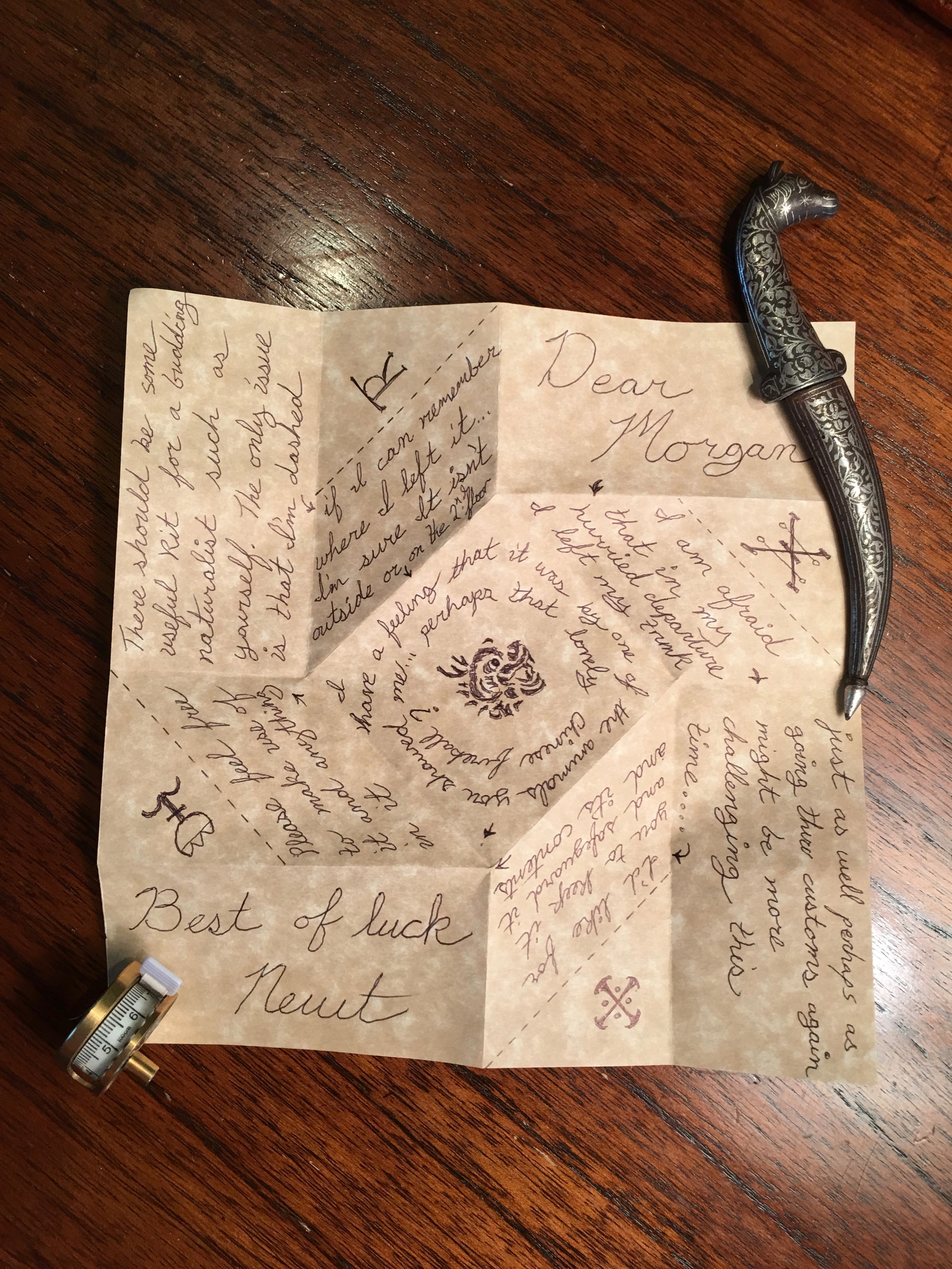
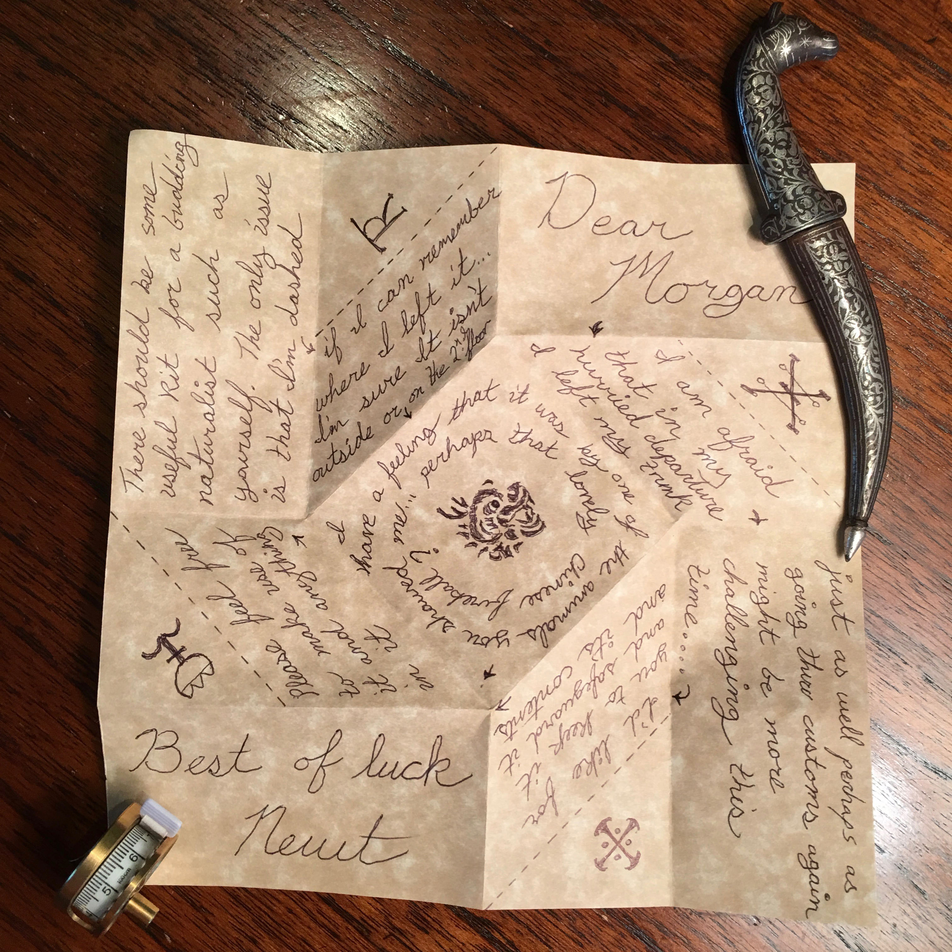
Fixing fantastic cover image

diff --git a/_posts/scavengerhunts/2016-fantastic-beasts-and-where-to-find-them/index.md b/_posts/scavengerhunts/2016-fantastic-beasts-and-where-to-find-them/index.md
@@ -1,11 +1,11 @@
 ---
-title: "2016 - Fantastic Beasts and Where to Find Them"
+title: "2016 - A Fantastic Christmas"
 excerpt: "Newt forgets his trunk"
 coverImage:
   src: "/images/scavengerhunts/2016-fantastic-beasts-and-where-to-find-them/letter.jpg"
   alt: "Newt's letter to Morgan"
   width: 3024
-  height: 4032
+  height: 3024
 date: "2016-12-25"
 author:
   name: JG Heithcock
